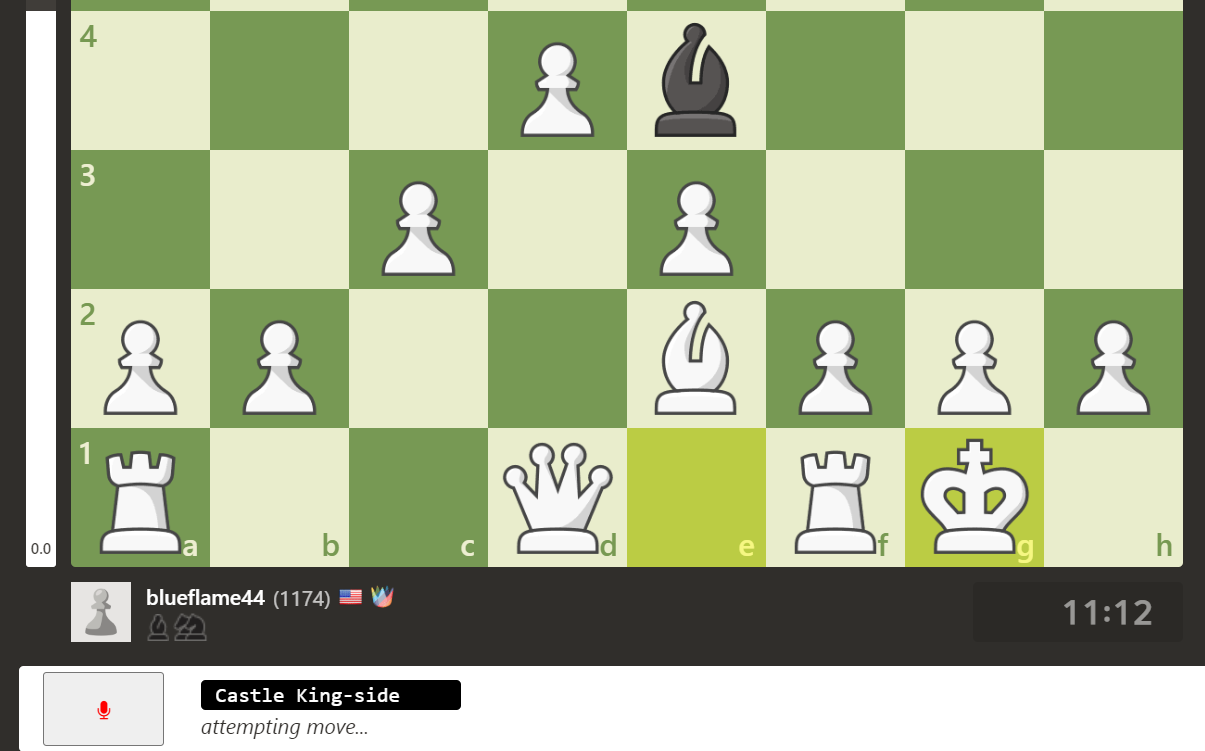
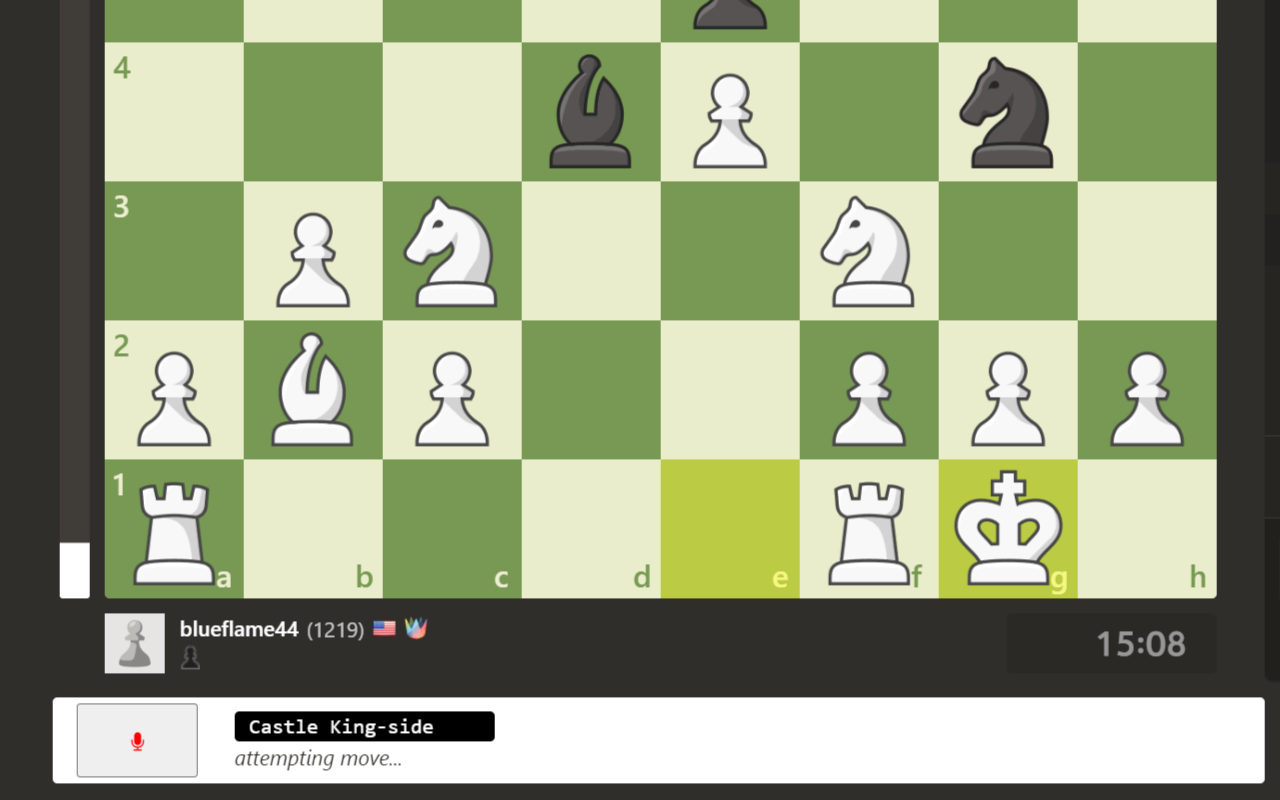
docs: update pics and link to extension

diff --git a/README.md b/README.md
@@ -1,5 +1,5 @@
 # Speak to Chess.com (Standard Notation)
-Source code for [the Chrome extension](https://chrome.google.com/webstore/category/extensions).
+Source code for [the Chrome extension](https://chrome.google.com/webstore/detail/speak-to-chesscom-standar/jhfacpfmnjeambcapipomocgnjmjgbaf).
 
 ## Overview
 Play hands-free on [chess.com](https://www.chess.com) by dictating moves in [standard chess notation](https://en.wikipedia.org/wiki/Algebraic_notation_(chess)).
@@ -8,11 +8,10 @@ Play hands-free on [chess.com](https://www.chess.com) by dictating moves in [sta
 [lichess.org](https://lichess.org) has implemented voice commands, but [chess.com](https://www.chess.com) does not have this feature.
 
 ## Move by Voice
-| ![bishop capture](images/screenshots/bishop-takes-g7.png) | ![pawn capture](images/screenshots/pawn-c-d4.png)
+Provides validation & feedback.
+| ![queen move](images/screenshots/queen-c2.png) | ![pawn capture](images/screenshots/pawn-e-d5.png) |
 :----:|:----:
-
-### Validation & Feedback
-![feedback and instructions](images/screenshots/feedback-and-instructions.png)
+| ![castle](images/screenshots/castle-king-side.png) | ![feedback and instructions](images/screenshots/feedback-and-instructions.png) |
 
 ## Architecture
 ### Flow
